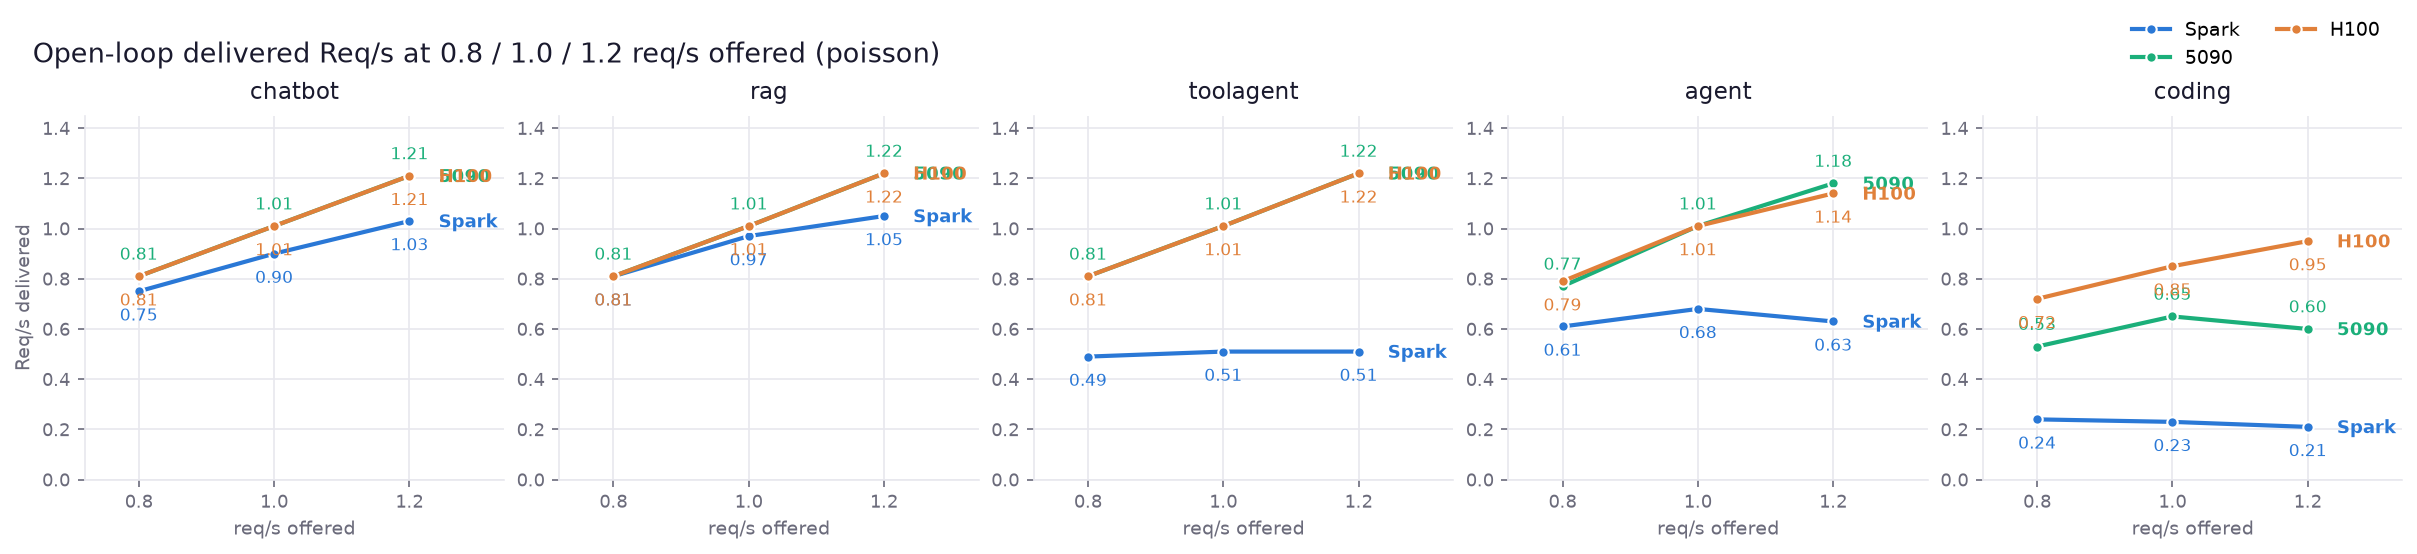
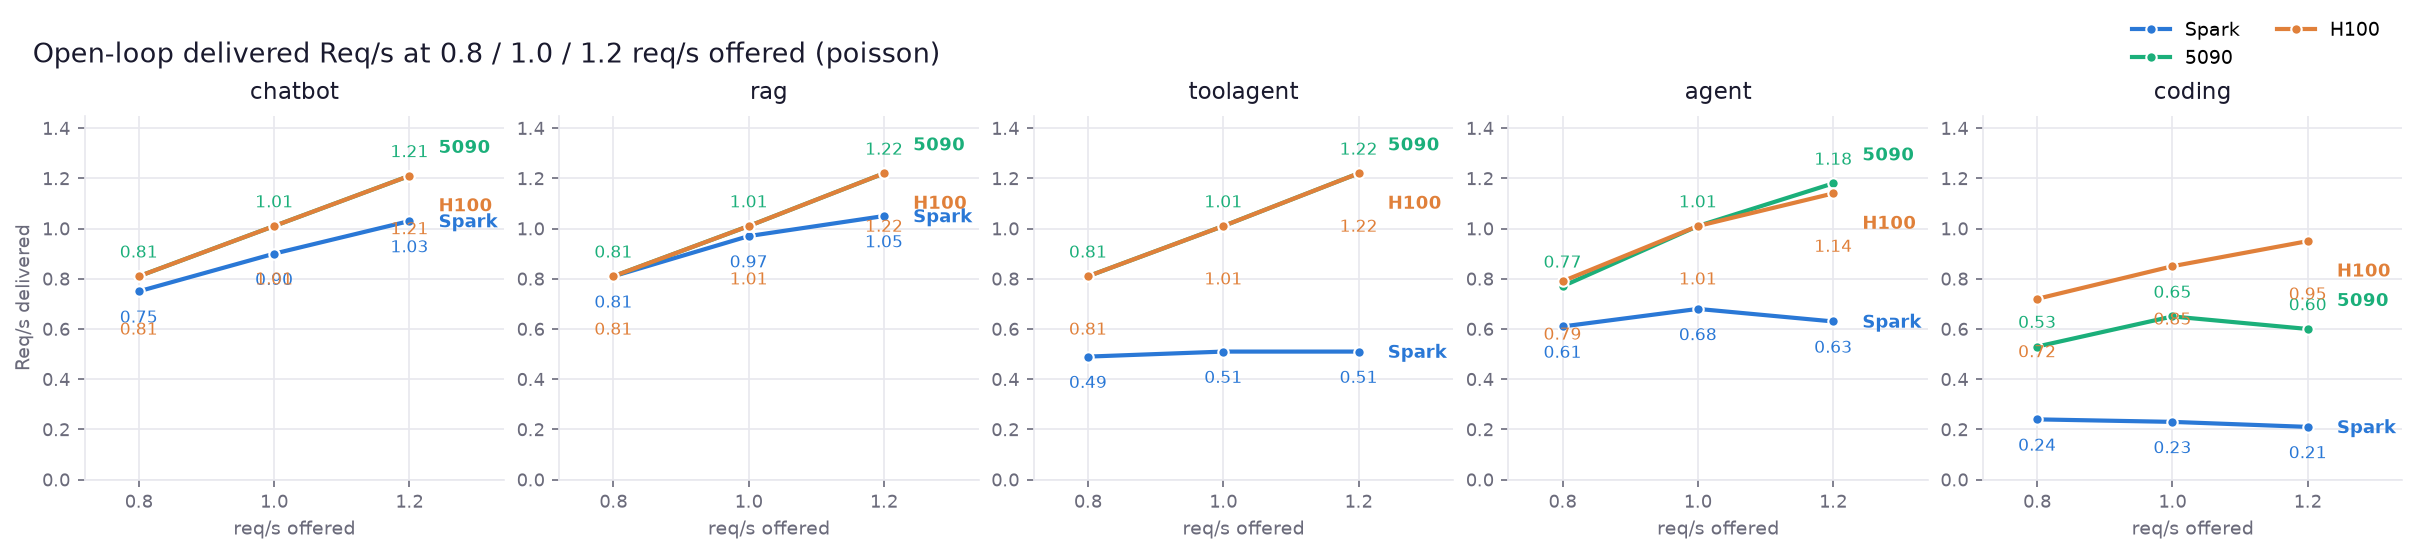
plot_nvfp4: add interactivity-vs-throughput chart; fix label overlap
- New nvfp4_interactivity.png: per-user output tok/s vs system output
  tok/s over the c2->c32 sweep, one panel per original (non-flat)
  workload. Shows the interactivity/throughput tradeoff and the 5090 KV
  thrash (rag/coding curves fold back left as concurrency rises).
- Fix nvfp4_rate_reqs.png: the 5090 & H100 node labels (and per-point
  value labels) overlapped where the two curves coincide; give each node
  its own vertical tier. Same dodge applied to the new chart.

diff --git a/scripts/plot_nvfp4.py b/scripts/plot_nvfp4.py
@@ -202,13 +202,16 @@ def rate_reqs_figure(fname):
                 continue
             ax.plot(xs, yv, color=color, linewidth=2, marker="o", markersize=5,
                     markeredgecolor="white", markeredgewidth=1, zorder=3)
-            # label every point with its raw value; 5090 above, spark below
-            dy = 8 if node == "5090" else -14
+            # label every point with its raw value; one vertical tier per node so
+            # coincident curves (e.g. 5090 & H100 both delivering the offered rate)
+            # don't stack their labels on top of each other
+            val_dy = {"spark": -15, "5090": 9, "h100": -28}.get(node, -15)
             for x, y in zip(xs, yv):
                 ax.annotate(f"{y:.2f}", (x, y), textcoords="offset points",
-                            xytext=(0, dy), fontsize=8, color=color, ha="center")
+                            xytext=(0, val_dy), fontsize=8, color=color, ha="center")
+            name_dy = {"spark": -3, "5090": 11, "h100": -17}.get(node, -3)
             ax.annotate(disp(node), (xs[-1], yv[-1]), textcoords="offset points",
-                        xytext=(14, -3), fontsize=8.5, color=color, fontweight="bold")
+                        xytext=(14, name_dy), fontsize=8.5, color=color, fontweight="bold")
         ax.set_xticks(RLEVELS)
         ax.set_xlim(0.72, 1.34)
         ax.set_ylim(0, 1.45)
@@ -220,6 +223,50 @@ def rate_reqs_figure(fname):
     fig.legend(handles=handles, loc="upper right", frameon=False, fontsize=9,
                bbox_to_anchor=(0.995, 1.06), ncol=2)
     fig.suptitle("Open-loop delivered Req/s at 0.8 / 1.0 / 1.2 req/s offered (poisson)",
+                 fontsize=13, color=INK, x=0.01, ha="left")
+    out = os.path.join(ROOT, fname)
+    fig.savefig(out, dpi=150, facecolor="white", bbox_inches="tight")
+    plt.close(fig)
+    print("wrote", out)
+
+
+def interactivity_figure(fname, wls=WLS):
+    """Interactivity (per-user output tok/s) vs system output throughput (tok/s),
+    closed-loop concurrency sweep c2->c32. One panel per workload; each marker is a
+    concurrency level — c2 sits top-left (few users, fast each), c32 bottom-right
+    (many users, more total tok/s, slower each)."""
+    fig, axes = plt.subplots(1, len(wls), figsize=(3.2 * len(wls) + 0.4, 3.4),
+                             constrained_layout=True)
+    for ax, wl in zip(axes, wls):
+        style(ax, wl)
+        for node, color in NODES:
+            xs, ys = [], []
+            for c in CLEVELS:
+                x = aiperf_metric(node, wl, f"c{c}", "Output Token Throughput (tokens/sec)")
+                y = aiperf_metric(node, wl, f"c{c}", "Output Token Throughput Per User (tokens/sec/user)")
+                if x is None or y is None:
+                    continue
+                xs.append(x); ys.append(y)
+            if not xs:
+                continue
+            ax.plot(xs, ys, color=color, linewidth=2, marker="o", markersize=5,
+                    markeredgecolor="white", markeredgewidth=1, zorder=3)
+            # direct-label the node at its highest-throughput (c32) end; one
+            # vertical tier per node so the 5090 & H100 ties don't collide
+            imax = xs.index(max(xs))
+            name_dy = {"spark": 4, "5090": 10, "h100": -12}.get(node, 4)
+            ax.annotate(disp(node), (xs[imax], ys[imax]), textcoords="offset points",
+                        xytext=(6, name_dy), fontsize=8.5, color=color, fontweight="bold")
+        ax.set_ylim(bottom=0)
+        ax.set_xlim(left=0)
+        ax.set_xlabel("system output tok/s", fontsize=9, color=MUTED)
+    axes[0].set_ylabel("per-user tok/s (interactivity)", fontsize=9, color=MUTED)
+    handles = [plt.Line2D([], [], color=c, linewidth=2, marker="o", markersize=5,
+                          markeredgecolor="white", label=disp(n)) for n, c in NODES]
+    fig.legend(handles=handles, loc="upper right", frameon=False, fontsize=9,
+               bbox_to_anchor=(0.995, 1.06), ncol=3)
+    fig.suptitle("Interactivity vs system throughput — closed loop, concurrency 2→"
+                 "32 (marker = c2 top-left → c32 bottom-right)",
                  fontsize=13, color=INK, x=0.01, ha="left")
     out = os.path.join(ROOT, fname)
     fig.savefig(out, dpi=150, facecolor="white", bbox_inches="tight")
@@ -272,6 +319,7 @@ def main():
     flat_vs_orig("nvfp4_flat_vs_orig.png")
     coding_flat_5090("nvfp4_coding_flat_5090_reqs.png")
     rate_reqs_figure("nvfp4_rate_reqs.png")
+    interactivity_figure("nvfp4_interactivity.png")
 
 
 if __name__ == "__main__":
